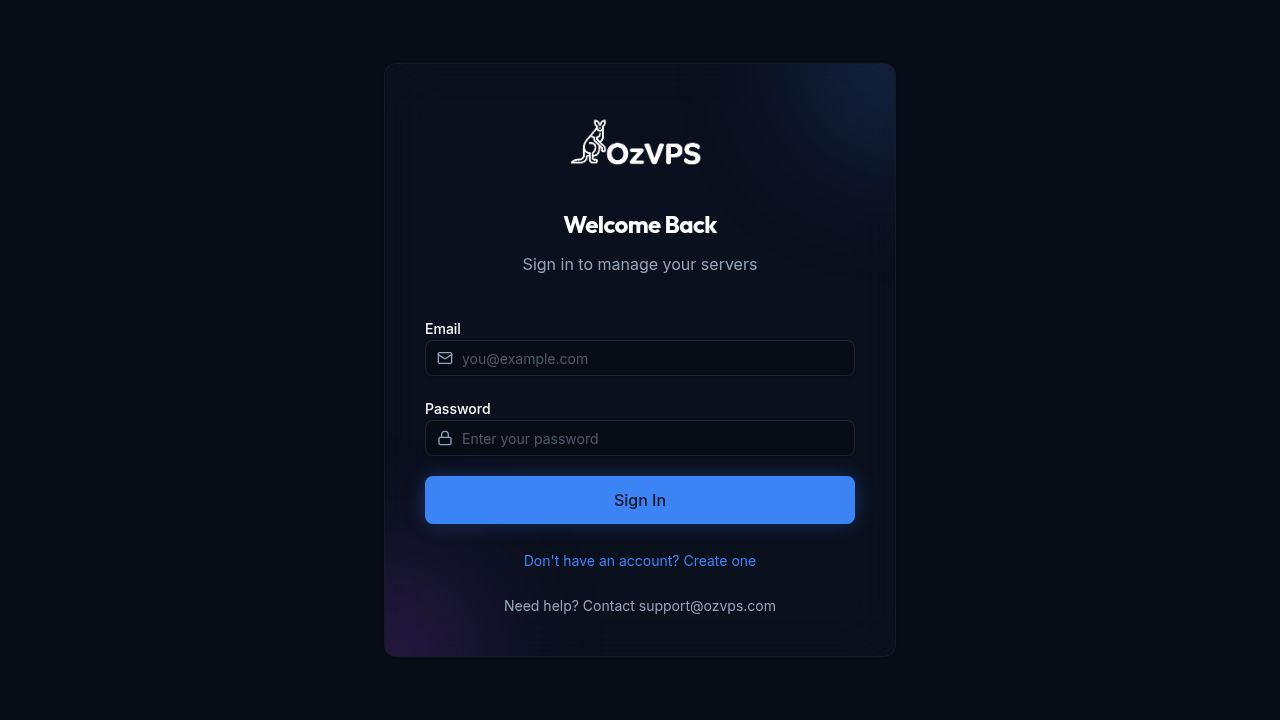
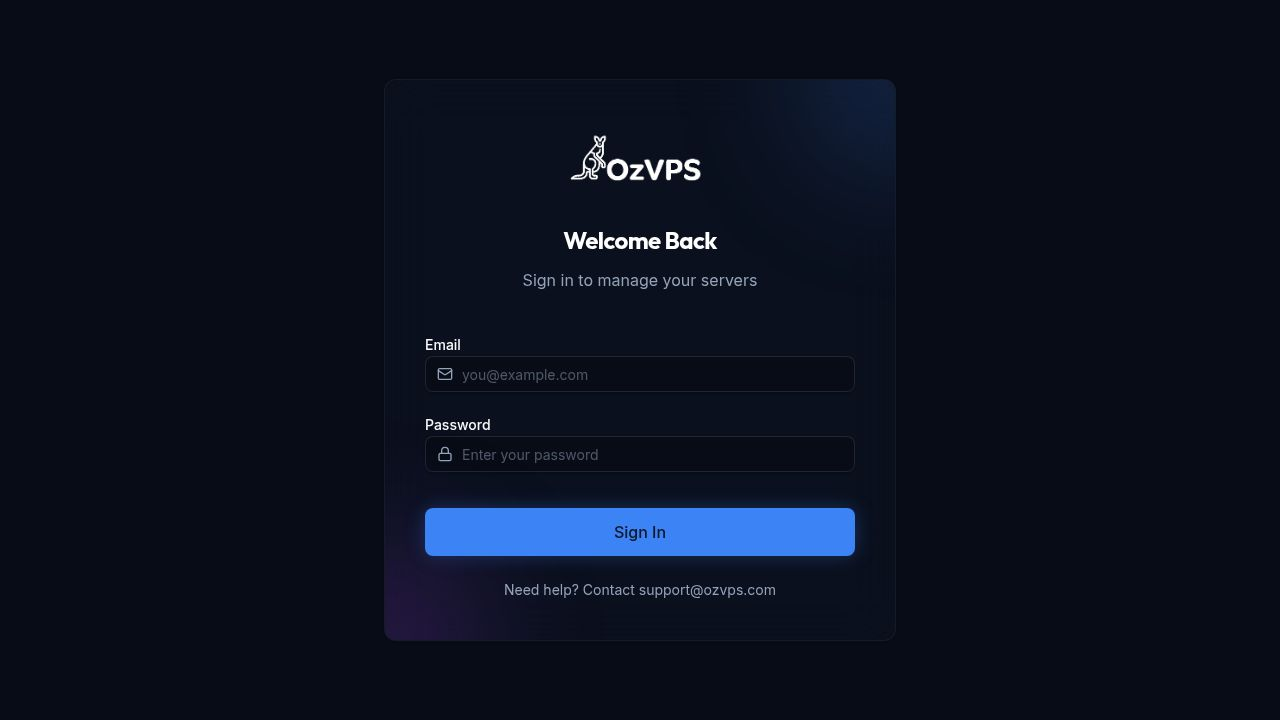
Update app branding and remove third-party references
Replaced favicon with OzVPS logo, removed internal @replit comments from UI components, and updated meta image plugin to remove Replit domain references.

Replit-Commit-Author: Agent
Replit-Commit-Session-Id: 376e303f-2313-4de6-a13d-b16f88074b40
Replit-Commit-Checkpoint-Type: full_checkpoint
Replit-Commit-Event-Id: b0bada1d-8b14-46a3-832b-5a6f2e6c0939
Replit-Commit-Screenshot-Url: https://storage.googleapis.com/screenshot-production-us-central1/8d85f4f1-9822-43d8-8fef-61748f2aba09/376e303f-2313-4de6-a13d-b16f88074b40/ku1e411
Replit-Helium-Checkpoint-Created: true

diff --git a/client/src/components/ui/badge.tsx b/client/src/components/ui/badge.tsx
@@ -4,23 +4,13 @@ import { cva, type VariantProps } from "class-variance-authority"
 import { cn } from "@/lib/utils"
 
 const badgeVariants = cva(
-  // @replit
-  // Whitespace-nowrap: Badges should never wrap.
-  "whitespace-nowrap inline-flex items-center rounded-md border px-2.5 py-0.5 text-xs font-semibold transition-colors focus:outline-none focus:ring-2 focus:ring-ring focus:ring-offset-2" +
-  " hover-elevate ",
+  "whitespace-nowrap inline-flex items-center rounded-md border px-2.5 py-0.5 text-xs font-semibold transition-colors focus:outline-none focus:ring-2 focus:ring-ring focus:ring-offset-2 hover-elevate",
   {
     variants: {
       variant: {
-        default:
-          // @replit shadow-xs instead of shadow, no hover because we use hover-elevate
-          "border-transparent bg-primary text-primary-foreground shadow-xs",
-        secondary:
-          // @replit no hover because we use hover-elevate
-          "border-transparent bg-secondary text-secondary-foreground",
-        destructive:
-          // @replit shadow-xs instead of shadow, no hover because we use hover-elevate
-          "border-transparent bg-destructive text-destructive-foreground shadow-xs",
-          // @replit shadow-xs" - use badge outline variable
+        default: "border-transparent bg-primary text-primary-foreground shadow-xs",
+        secondary: "border-transparent bg-secondary text-secondary-foreground",
+        destructive: "border-transparent bg-destructive text-destructive-foreground shadow-xs",
         outline: "text-foreground border [border-color:var(--badge-outline)]",
       },
     },

diff --git a/client/src/components/ui/button.tsx b/client/src/components/ui/button.tsx
@@ -10,25 +10,14 @@ const buttonVariants = cva(
   {
     variants: {
       variant: {
-        default:
-           // @replit: no hover, and add primary border
-           "bg-primary text-primary-foreground border border-primary-border",
-        destructive:
-          "bg-destructive text-destructive-foreground shadow-sm border-destructive-border",
-        outline:
-          // @replit Shows the background color of whatever card / sidebar / accent background it is inside of.
-          // Inherits the current text color. Uses shadow-xs. no shadow on active
-          // No hover state
-          " border [border-color:var(--button-outline)] shadow-xs active:shadow-none ",
-        secondary:
-          // @replit border, no hover, no shadow, secondary border.
-          "border bg-secondary text-secondary-foreground border border-secondary-border ",
-        // @replit no hover, transparent border
+        default: "bg-primary text-primary-foreground border border-primary-border",
+        destructive: "bg-destructive text-destructive-foreground shadow-sm border-destructive-border",
+        outline: "border [border-color:var(--button-outline)] shadow-xs active:shadow-none",
+        secondary: "border bg-secondary text-secondary-foreground border border-secondary-border",
         ghost: "border border-transparent",
         link: "text-primary underline-offset-4 hover:underline",
       },
       size: {
-        // @replit changed sizes
         default: "min-h-9 px-4 py-2",
         sm: "min-h-8 rounded-md px-3 text-xs",
         lg: "min-h-10 rounded-md px-8",

diff --git a/vite-plugin-meta-images.ts b/vite-plugin-meta-images.ts
@@ -4,7 +4,7 @@ import path from 'path';
 
 /**
  * Vite plugin that updates og:image and twitter:image meta tags
- * to point to the app's opengraph image with the correct Replit domain.
+ * to point to the app's opengraph image with the correct deployment domain.
  */
 export function metaImagesPlugin(): Plugin {
   return {
@@ -12,7 +12,7 @@ export function metaImagesPlugin(): Plugin {
     transformIndexHtml(html) {
       const baseUrl = getDeploymentUrl();
       if (!baseUrl) {
-        log('[meta-images] no Replit deployment domain found, skipping meta tag updates');
+        log('[meta-images] no deployment domain found, skipping meta tag updates');
         return html;
       }
 

diff --git a/client/src/lib/version.ts b/client/src/lib/version.ts
@@ -21,6 +21,8 @@ export const VERSION_HISTORY = [
     changes: [
       "Improved login page spacing",
       "Fixed login page background color",
+      "Replaced favicon with OzVPS logo",
+      "Removed third-party branding from codebase",
     ],
   },
   {
